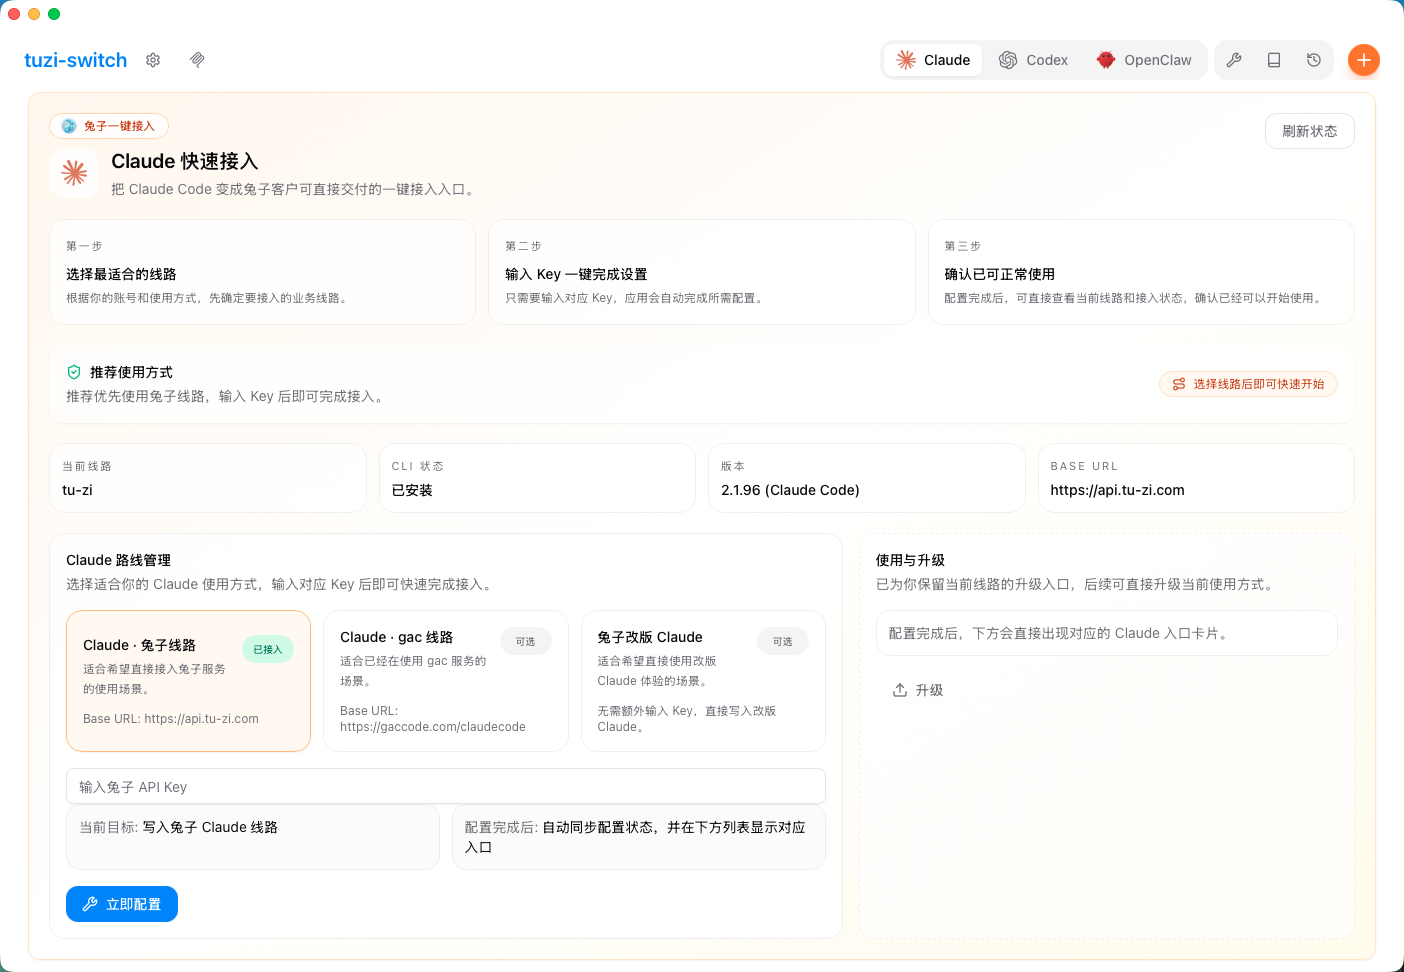
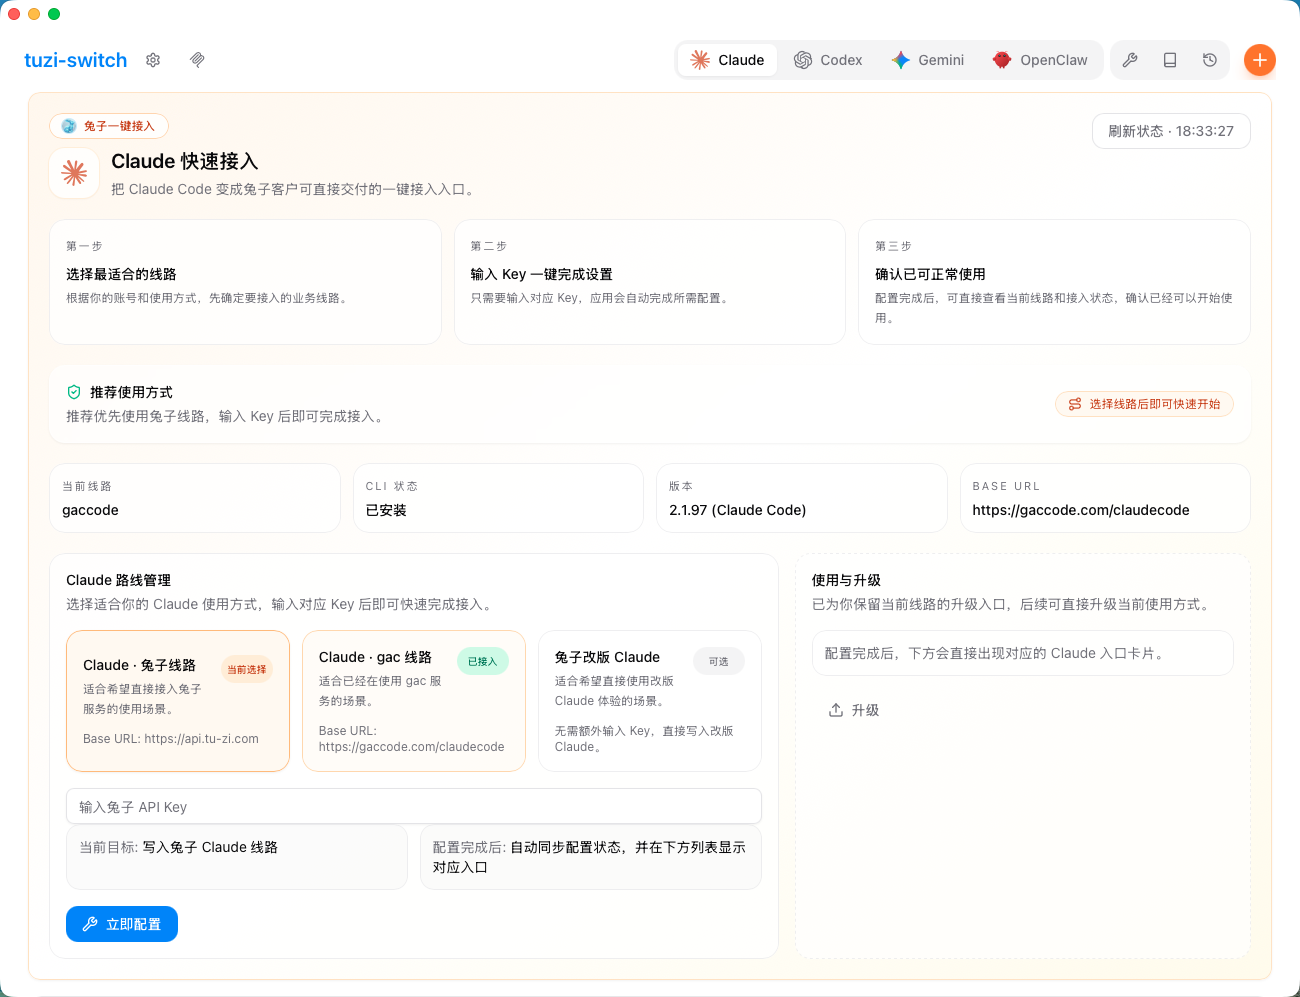
docs: refresh installer guidance and screenshots

diff --git a/README_JA.md b/README_JA.md
@@ -28,17 +28,18 @@
 
 ### ワンコマンドインストール
 
-GitHub から最新の正式版を直接インストール:
+現在の推奨版 `v3.12.10` を直接インストール:
 
 ```bash
-curl -fsSL https://raw.githubusercontent.com/tuziapi/tuzi-switch/main/scripts/install_tuzi_switch.sh | bash
+curl -fsSL https://raw.githubusercontent.com/tuziapi/tuzi-switch/main/scripts/install_tuzi_switch.sh | env TUZI_SWITCH_TAG=v3.12.10 bash
 ```
 
 補足:
 
-- 現在のスクリプトは GitHub の `releases/latest` を参照します
-- 最新版が `prerelease` として公開されている場合、その最新プレリリース版を取得できないことがあります
-- 最新のテスト版が必要な場合は、Releases ページから対象 tag のパッケージを直接ダウンロードしてください
+- 現在の Release workflow は引き続き `prerelease` 方式で公開されています
+- そのため GitHub の `releases/latest` では、最新のテスト版を正しく取れない場合があります
+- README のコマンドは `v3.12.10` に固定し、現在の推奨版を確実に入れられるようにしています
+- 別バージョンを入れたい場合は `TUZI_SWITCH_TAG=vX.Y.Z` の値を差し替えてください
 
 ### macOS 未署名ビルド
 
@@ -104,6 +105,10 @@ tuzi-switch は CC Switch をベースにした Tuzi 業務向けのカスタム
 ### Codex
 
 ![Codex Tuzi Flow](assets/screenshots/codex-tuzi.png)
+
+### Gemini
+
+![Gemini Tuzi Flow](assets/screenshots/gemini-tuzi.png)
 
 ### OpenClaw
 

diff --git a/README_EN.md b/README_EN.md
@@ -28,17 +28,18 @@ Current public releases are ready for Windows and Linux users. macOS is currentl
 
 ### One-Command Install
 
-Install the latest stable public release directly from GitHub:
+Install the currently recommended build `v3.12.10` directly from GitHub:
 
 ```bash
-curl -fsSL https://raw.githubusercontent.com/tuziapi/tuzi-switch/main/scripts/install_tuzi_switch.sh | bash
+curl -fsSL https://raw.githubusercontent.com/tuziapi/tuzi-switch/main/scripts/install_tuzi_switch.sh | env TUZI_SWITCH_TAG=v3.12.10 bash
 ```
 
 Notes:
 
-- The script currently follows GitHub `releases/latest`
-- If the newest build is published as a `prerelease`, the script may not resolve to that newest prerelease build
-- If you need the newest testing build, download the package for the exact tag from the Releases page instead
+- The current release workflow still publishes builds as `prerelease`
+- Because of that, GitHub `releases/latest` does not always point to the newest testing build
+- The README command is now pinned to `v3.12.10` so it installs the current recommended version reliably
+- To install another version, replace the value in `TUZI_SWITCH_TAG=vX.Y.Z`
 
 ### macOS Unsigned Build
 
@@ -104,6 +105,10 @@ Compared with the original upstream project, this edition focuses more on busine
 ### Codex
 
 ![Codex Tuzi Flow](assets/screenshots/codex-tuzi.png)
+
+### Gemini
+
+![Gemini Tuzi Flow](assets/screenshots/gemini-tuzi.png)
 
 ### OpenClaw
 

diff --git a/README.md b/README.md
@@ -28,17 +28,18 @@
 
 ### 一键安装
 
-直接从 GitHub 安装最新正式版：
+直接安装当前推荐版本 `v3.12.10`：
 
 ```bash
-curl -fsSL https://raw.githubusercontent.com/tuziapi/tuzi-switch/main/scripts/install_tuzi_switch.sh | bash
+curl -fsSL https://raw.githubusercontent.com/tuziapi/tuzi-switch/main/scripts/install_tuzi_switch.sh | env TUZI_SWITCH_TAG=v3.12.10 bash
 ```
 
 补充说明：
 
-- 当前脚本默认跟随 GitHub `releases/latest`
-- 如果最新版本仍以 `prerelease` 方式发布，脚本可能不会拿到最新预发布版本
-- 需要安装最新测试版时，建议直接前往 Releases 页面手动下载对应 tag 的安装包
+- 当前 Release workflow 仍使用 `prerelease` 发布策略
+- 因此默认走 GitHub `releases/latest` 时，不一定能命中当前最新测试版本
+- 目前 README 默认固定到 `v3.12.10`，这样可以确保安装到我们当前推荐版本
+- 需要安装其它版本时，可以改用 `env TUZI_SWITCH_TAG=vX.Y.Z bash`
 
 ### macOS 未签名包打开方式
 
@@ -104,6 +105,10 @@ tuzi-switch 是基于 CC Switch 定制的兔子业务版本。它保留了成熟
 ### Codex
 
 ![Codex 兔子接入](assets/screenshots/codex-tuzi.png)
+
+### Gemini
+
+![Gemini 兔子接入](assets/screenshots/gemini-tuzi.png)
 
 ### OpenClaw
 

diff --git a/README_ZH.md b/README_ZH.md
@@ -28,17 +28,18 @@
 
 ### 一键安装
 
-直接从 GitHub 安装最新正式版：
+直接安装当前推荐版本 `v3.12.10`：
 
 ```bash
-curl -fsSL https://raw.githubusercontent.com/tuziapi/tuzi-switch/main/scripts/install_tuzi_switch.sh | bash
+curl -fsSL https://raw.githubusercontent.com/tuziapi/tuzi-switch/main/scripts/install_tuzi_switch.sh | env TUZI_SWITCH_TAG=v3.12.10 bash
 ```
 
 补充说明：
 
-- 当前脚本默认跟随 GitHub `releases/latest`
-- 如果最新版本仍以 `prerelease` 方式发布，脚本可能不会拿到最新预发布版本
-- 需要安装最新测试版时，建议直接前往 Releases 页面手动下载对应 tag 的安装包
+- 当前 Release workflow 仍使用 `prerelease` 发布策略
+- 因此默认走 GitHub `releases/latest` 时，不一定能命中当前最新测试版本
+- 目前 README 默认固定到 `v3.12.10`，这样可以确保安装到我们当前推荐版本
+- 需要安装其它版本时，可以改用 `env TUZI_SWITCH_TAG=vX.Y.Z bash`
 
 ### macOS 未签名包打开方式
 
@@ -104,6 +105,10 @@ tuzi-switch 是基于 CC Switch 定制的兔子业务版本。它保留了成熟
 ### Codex
 
 ![Codex 兔子接入](assets/screenshots/codex-tuzi.png)
+
+### Gemini
+
+![Gemini 兔子接入](assets/screenshots/gemini-tuzi.png)
 
 ### OpenClaw
 
